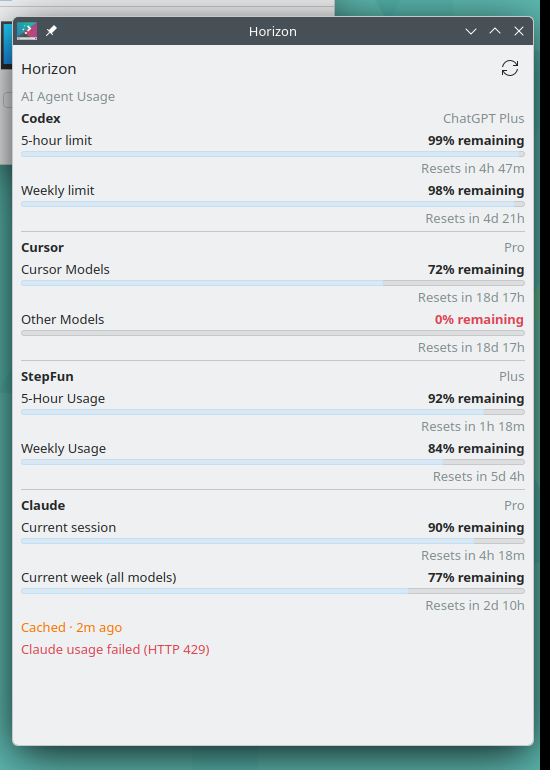
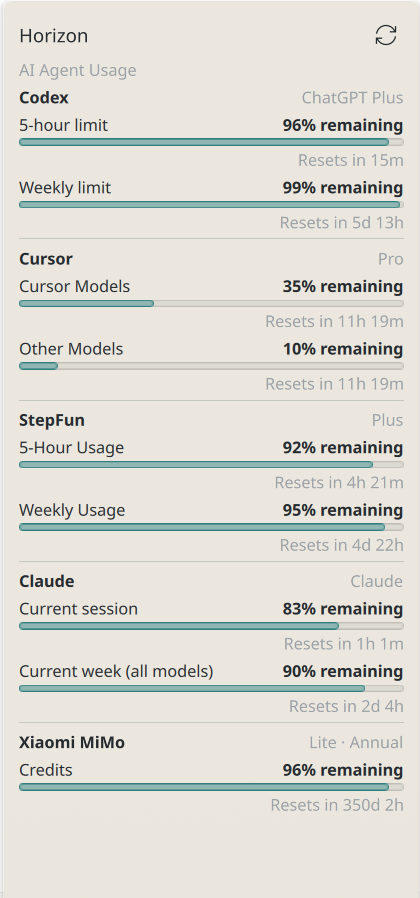
docs: update the Horizon usage screenshot
Show the current popup, including Xiaomi MiMo.

diff --git a/README.md b/README.md
@@ -7,7 +7,7 @@ Horizon is a KDE Plasma widget for Linux that keeps an eye on OpenAI Codex (Chat
 Compact panel: the lowest remaining quota. A meter at 0 is counted beside that number (`AI 75% · 1 at 0%`) instead of replacing it. When every meter is at 0 the panel shows `AI 0%`.
 Popup: one section per provider with its plan, one row per remaining-quota meter with that meter's own reset, and clear stale / auth / error labels. Hover the panel for each meter's label.
 
-<img src="docs/assets/horizon-usage.png" alt="Horizon popup with Codex, Cursor, StepFun, and Claude. Each meter shows percent remaining and its own reset. Cursor Other Models is at 0 percent and shown in the theme's negative color." width="360">
+<img src="docs/assets/horizon-usage.png" alt="Horizon popup with Codex, Cursor, StepFun, Claude, and Xiaomi MiMo. Each meter shows percent remaining and its own reset. Xiaomi MiMo is Lite · Annual with Credits at 96 percent remaining." width="360">
 
 <img src="docs/assets/horizon-compact.png" alt="Horizon panel tooltip listing every enabled provider and meter, with the panel reading AI 70% · 1 at 0%" width="420">
 
